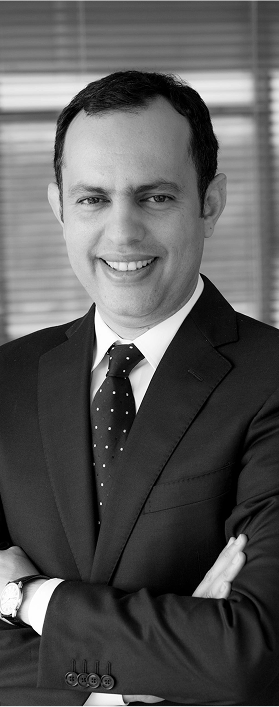
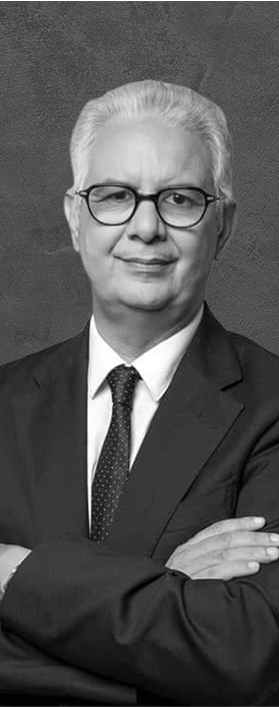
add all html

diff --git a/themes/custom/cfc/CFC/LP_OCDE.html b/themes/custom/cfc/CFC/LP_OCDE.html
@@ -22,6 +22,7 @@
 
   <!-- slick CSS -->
   <link rel="stylesheet" href="/themes/custom/cfc/CFC/assets/css/slick.css" />
+  <link rel="stylesheet" href="/themes/custom/cfc/CFC/assets/css/style_dr.css" />
 
   <!-- Custom CSS -->
   <link rel="stylesheet" href="/themes/custom/cfc/CFC/assets/css/style.css" />
@@ -137,16 +138,19 @@
     </div>
   </section>
   <section class="mots container">
-    <div class="title__form_all_form_bottom container">
-      <h2>MOTS <br> <span>D’OUVERTURE</span></h2>
-    </div>
-    <hr style="border-top: #ff4f00 solid; opacity: 1" />
-    <div class="container my-4 position-relative">
-      <div class="mx-auto" style="max-width: 850px">
+
+
+    <div class="container my-4 position-relative card_all_list">
+      <div class="mx-auto">
+        <div class="title__form_all_form_bottom container">
+          <h2>MOTS <br> <span>DE BIENVENUE</span></h2>
+
+        </div>
         <div class="row">
           <div class="col-md-3 text-center">
             <img src="/themes/custom/cfc/CFC/assets/images/g208.png" class="img-fluid rounded" alt="Image 1" />
             <p class="titre-manage mt-3">ABDELLATIF<br />MAÂZOUZ</p>
+            <hr>
             <p>
               Président du Conseil <br />Régional de <br />Casablanca-Settat
             </p>
@@ -154,31 +158,37 @@
           <div class="col-md-3 text-center">
             <img src="/themes/custom/cfc/CFC/assets/images/mots2.png" class="img-fluid rounded" alt="Image 1" />
             <p class="titre-manage mt-3">SAID <br />IBRAHIMI</p>
+            <hr>
             <p>
-              CEO <br />Casablanca Finance <br />City Authority
+              CEO de<br />Casablanca Finance <br />City Authority
             </p>
           </div>
+        </div>
+      </div>
+      <div class="mx-auto">
+        <div class="title__form_all_form_bottom container">
+          <h2>DISCOURS <br> <span>INTRODUCTIFS</span></h2>
+        </div>
+        <div class="row">
           <div class="col-md-3 text-center">
             <img src="/themes/custom/cfc/CFC/assets/images/mots3.png" class="img-fluid rounded" alt="Image 1" />
-            <p class="titre-manage mt-3">ABDELLATIF<br />MAÂZOUZ</p>
+            <p class="titre-manage mt-3">NIZAR<br />BARAKA</p>
+            <hr>
             <p>
-              Ministre de l’Inclusion<br />Économique, de la Petite <br />Entreprise, de l’Emploi <br />et des
-              Compétences
+              Ministre de l'Équipement<br />et de l'Eau
             </p>
           </div>
           <div class="col-md-3 text-center">
             <img src="/themes/custom/cfc/CFC/assets/images/mots4.png" class="img-fluid rounded" alt="Image 1" />
             <p class="titre-manage mt-3">RAGNHEIÐUR <br /> ELÍN ÁRNADÓTTIR </p>
+            <hr>
             <p>
               Directrice du Centre<br /> de Développement<br /> de l’OCDE
             </p>
           </div>
         </div>
       </div>
-      <!-- line -->
-      <hr class="line_box" style="border-top: #ff4f00 solid; opacity: 1">
     </div>
-    <hr style="border-top: #ff4f00 solid; opacity: 1" />
   </section>
   <section class="table container" id="table_att">
     <div class="title__form_all_form_bottom container">
@@ -186,19 +196,21 @@
     </div>
     <hr style="border-top: #ff4f00 solid; opacity: 1" />
 
-    <div class="container my-4  position-relative">
+    <div class="container my-4  position-relative " >
       <div class="mx-auto" style="max-width: 1040px">
         <div class="row d-flex justify-content-center">
           <div class="col-custom5 text-center">
             <img src="/themes/custom/cfc/CFC/assets/images/tables1.png" class="img-fluid rounded" alt="Image 1" />
-            <p class="titre-manage mt-3">ARTHUR <br />MINSAT</p>
+            <p class="titre-manage mt-3">PRENOM <br />NOM</p>
+            <hr>
             <p>
-              Président du Conseil <br />Régional de <br />Casablanca-Settat
+              MCKinsey
             </p>
           </div>
           <div class="col-custom5 text-center">
             <img src="/themes/custom/cfc/CFC/assets/images/tables2.png" class="img-fluid rounded" alt="Image 1" />
             <p class="titre-manage mt-3">KHALID <br />BADDOU</p>
+            <hr>
             <p>
               Chef de Cabinet<br /> Directeur des Affaires <br /> Institutionnelles à UM6P
 
@@ -207,33 +219,35 @@
           <div class="col-custom5 text-center">
             <img src="/themes/custom/cfc/CFC/assets/images/tables3.png" class="img-fluid rounded" alt="Image 1" />
             <p class="titre-manage mt-3">JAVIER <br />DIAZ CASSOU</p>
+            <hr>
             <p>
               Senior Economist <br />for Morocco <br />Banque Mondiale
             </p>
           </div>
           <div class="col-custom5 text-center">
             <img src="/themes/custom/cfc/CFC/assets/images/tables4.png" class="img-fluid rounded" alt="Image 1" />
-            <p class="titre-manage mt-3">MEHDI <br />TAZI</p>
+            <p class="titre-manage mt-3">LOUBNA <br />TRICHA</p>
+            <hr>
             <p>
-              Vice-Président Général - CGEM
+              Diréctrice Générale<br>OFPPT
             </p>
           </div>
           <div class="col-custom5 text-center">
             <img src="/themes/custom/cfc/CFC/assets/images/tables5.png" class="img-fluid rounded" alt="Image 1" />
-            <p class="titre-manage mt-3">LOUBNA <br />TRICHA</p>
+            <p class="titre-manage mt-3">BADR <br />CHOUFARI</p>
+            <hr>
             <p>
-              Diréctrice Générale <br /> OFPPT
+              Managing Director <br /> and Partner - BCG
             </p>
           </div>
         </div>
       </div>
-      <!-- line -->
-      <hr class="line_box" style="border-top: #ff4f00 solid; opacity: 1">
+
     </div>
 
     <hr style="border-top: #ff4f00 solid; opacity: 1" />
     <div class="pt-3  d-flex flex-column justify-content-center align-items-center text-center">
-      <a href="#" class="btn btn-custom">S’INSCRIRE</a>
+      <a href="/en/event-ocde/#contact---ocde" class="btn btn-custom">S’INSCRIRE</a>
     </div>
   </section>
   <section class="all_programme_ligne">
@@ -242,7 +256,7 @@
       <div class="row">
         <div class="programme_ligne">
           <div class="title__form_all_form_bottom container">
-            <h2>PROGRAMME <br> <span>& THÉMATIQUES</span></h2>
+            <h2><span>PROGRAMME</span></h2>
           </div>
 
           <div class="time_slot">
@@ -255,7 +269,7 @@
           <div class="time_slot">
             <div class="left_all_prg">
               <span class="time">09:30 - 09:45:</span>
-              <span class="activity">Mot d'accueil du Président du Conseil Régional de Casablanca-Settat</span>
+              <span class="activity">Mot de bienvenue du Président du Conseil Régional de Casablanca-Settat</span>
             </div>
             <div class="right_all_prg">
               <p>Abdellatif Maâzouz</p>
@@ -265,7 +279,7 @@
           <div class="time_slot">
             <div class="left_all_prg">
               <span class="time">09:35 - 09:40:</span>
-              <span class="activity">Mot d'ouverture du CFO de Casablanca Finance City Authority</span>
+              <span class="activity">Mot de bienvenue du CEO de Casablanca Finance City Authority</span>
             </div>
             <div class="right_all_prg">
               <p>Said Ibrahimi</p>
@@ -274,9 +288,8 @@
 
           <div class="time_slot">
             <div class="left_all_prg">
-              <span class="time">09:40 - 09:45:</span>
-              <span class="activity">Mot d'ouverture du Ministre de l'inclusion Économique, de la Petite Entreprise, de
-                l'Emploi et des Compétences</span>
+              <span class="time">09:40 - 09:50:</span>
+              <span class="activity">Discours introductif du Ministre de l'Équipement et de l'Eau</span>
             </div>
             <div class="right_all_prg">
               <p>Nizar Baraka</p>
@@ -285,15 +298,15 @@
 
           <div class="time_slot">
             <div class="left_all_prg">
-              <span class="time">09:45 - 09:50:</span>
-              <span class="activity">Mot d'ouverture de la Directrice du Centre de Développement de l'OCDE</span>
+              <span class="time">09:50 - 10:00</span>
+              <span class="activity">Discours introductif de la Directrice du Centre de Développement de l’OCDE</span>
             </div>
             <div class="right_all_prg">
               <p>Ragnheiður Elín Árnadóttir</p>
             </div>
           </div>
 
-          <div class="time_slot">
+          <!-- <div class="time_slot">
             <div class="left_all_prg">
               <span class="time">09:50 - 10:00:</span>
               <span class="activity">Mot d'ouverture du représentant de l'UA</span>
@@ -301,7 +314,7 @@
             <div class="right_all_prg">
               <p>Nom Prénom</p>
             </div>
-          </div>
+          </div> -->
 
           <div class="time_slot">
             <div class="left_all_prg">
@@ -316,7 +329,7 @@
 
           <div class="time_slot">
             <div class="left_all_prg">
-              <span class="time">10:20 - 10:35:</span>
+              <span class="time">10:20 - 10:30</span>
               <span class="activity">Échange avec la salle</span>
             </div>
 
@@ -324,7 +337,7 @@
 
           <div class="time_slot">
             <div class="left_all_prg">
-              <span class="time">10:35 - 11:35:</span>
+              <span class="time">10:30 - 11:30:</span>
               <span class="activity">Panel</span>
             </div>
             <div class="right_all_prg">
@@ -335,7 +348,7 @@
 
           <div class="time_slot">
             <div class="left_all_prg">
-              <span class="time">11:35 - 11:50:</span>
+              <span class="time">11:30 - 11:50:</span>
               <span class="activity">Q&A avec la salle</span>
             </div>
           </div>
@@ -356,7 +369,7 @@
         </div>
 
         <div class="btn_title-orange text-center">
-          <a href="#">S’INSCRIRE</a>
+          <a href="/en/event-ocde/#contact---ocde">S’INSCRIRE</a>
         </div>
       </div>
       <div class="row" style="

diff --git a/themes/custom/cfc/CFC/assets/css/style_dr.css b/themes/custom/cfc/CFC/assets/css/style_dr.css
@@ -1482,3 +1482,55 @@ span.conference_moderne {
 #block-cfc-sectiononeeventocde .invitation-card {
   height: 90%;
 }
+#table_att a.btn.btn-custom {
+  border-radius: 10px;
+  width: auto;
+  padding: 5px 25px;
+  height: max-content;
+}
+.card_all_list {
+  display: flex;
+  justify-content: space-between;
+}
+
+
+
+.card_all_list .mx-auto {
+  margin: 0;
+  width: inherit;
+}
+
+.card_all_list .mx-auto:last-child .row {justify-content: right;}
+
+.card_all_list .mx-auto:last-child .title__form_all_form_bottom.container {
+  justify-content: center;
+  display: flex;
+  position: relative;
+  left: 17px;
+}
+
+.card_all_list .row {
+  margin-top: 8%;
+}
+.card_all_list .mx-auto {
+  position: relative;
+}
+
+.card_all_list .mx-auto:after {
+  position: absolute;
+  content: "";
+  height: 2px;
+  width: 100%;
+  background: red;
+  top: 14%;
+}
+
+.container.my-4.position-relative.card_all_list {
+  padding: 0;
+}
+.card_all_list hr,p.titre-manage.mt-3 + hr {
+  width: 50%;
+  margin: 10px auto;
+  border-top: #ff4f00 solid;
+  opacity: 1;
+}

diff --git a/themes/custom/cfc/CFC/assets/css/style.css b/themes/custom/cfc/CFC/assets/css/style.css
@@ -5645,7 +5645,9 @@ section.mots.container p {
   border-radius: 20px;
 }
 
-
+section.mots.container .col-md-3.text-center {
+  width: auto;
+}
 @media (max-width: 768px) {
   section#table_att {
     padding: 20px 30px;
